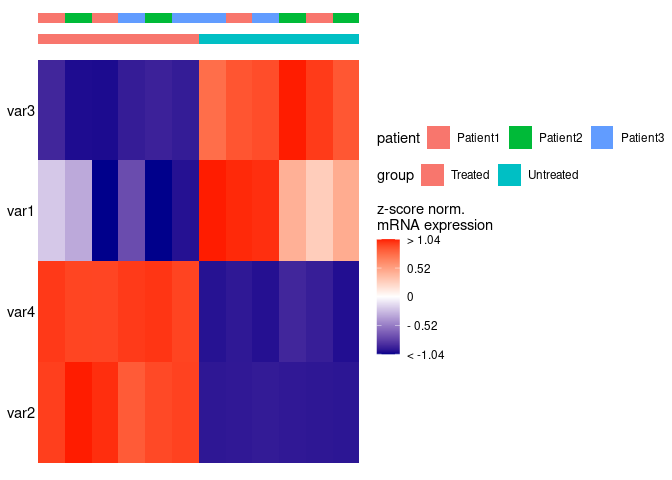
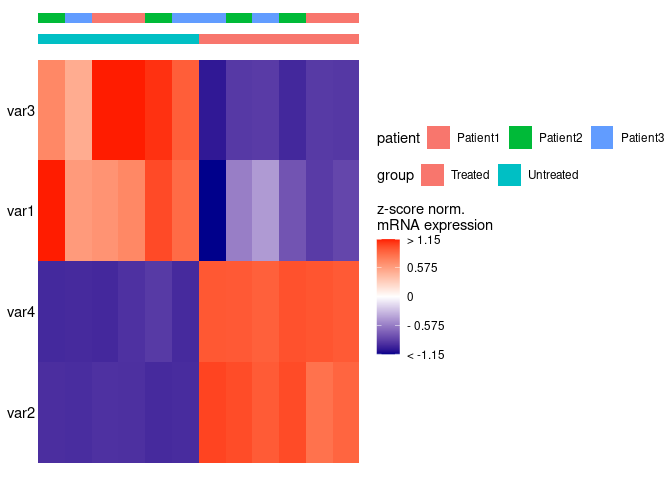
another readme update

diff --git a/README.md b/README.md
@@ -24,6 +24,7 @@ This is a basic example which shows you how to solve a common problem:
 
 ``` r
 library(simpleHM)
+
 df <- data.frame(samples = c(paste0("untreated", 1:6), paste0("treated", 7:12)),
                  group = c(rep("Untreated",6), rep("Treated",6)),
                  patient = c(rep(paste0("Patient", 1:3), 4)),
@@ -34,13 +35,13 @@ df <- data.frame(samples = c(paste0("untreated", 1:6), paste0("treated", 7:12)),
                  var4 = c(rnorm(6, 10, 1),  rnorm(6, 60, .7)))
 
 head(df)
-#>      samples     group  patient batch      var1      var2     var3      var4
-#> 1 untreated1 Untreated Patient1     1  8.927879  9.751583 47.86399  9.396543
-#> 2 untreated2 Untreated Patient2     2  9.216838  9.284323 45.87959  7.788124
-#> 3 untreated3 Untreated Patient3     1 11.298714  9.744121 43.88606  8.075569
-#> 4 untreated4 Untreated Patient1     2 10.101002 10.306085 46.04717  8.700804
-#> 5 untreated5 Untreated Patient2     1  9.178411 10.334551 54.46727 10.248702
-#> 6 untreated6 Untreated Patient3     2 10.076768 11.278322 46.62077  7.950546
+#>      samples     group  patient batch     var1      var2     var3      var4
+#> 1 untreated1 Untreated Patient1     1 10.10423 11.501308 56.37941  9.179734
+#> 2 untreated2 Untreated Patient2     2 10.86695  8.427591 54.16615 11.389776
+#> 3 untreated3 Untreated Patient3     1 10.01976  9.510030 41.26797  9.350953
+#> 4 untreated4 Untreated Patient1     2 10.23832 11.216166 55.85022 10.308983
+#> 5 untreated5 Untreated Patient2     1 11.77084 10.192072 45.74605  9.220261
+#> 6 untreated6 Untreated Patient3     2 10.55971  9.234998 50.49691  9.407339
 
 heatmap_plot <- simpleHM(df, excluded_vars = "batch")    
 #> normalisation done
@@ -116,6 +117,9 @@ distance between branches. For this purpose, the `pull_top` and
 through rotation along the branches of the tree.
 
 ``` r
+
+
+library(patchwork)
 p1 <- simpleHM(df, excluded_vars = "batch", add_dendros = T )
 #> normalisation done
 #> clustering samples done
@@ -150,11 +154,19 @@ p4 <- simpleHM(df, excluded_vars = "batch", add_dendros = T, pull_side = c("var1
 #> Adding another scale for y, which will replace the existing scale.Scale for x is already present.
 #> Adding another scale for x, which will replace the existing scale.
 
-combined_plots <- patchwork::wrap_plots(p1, p2, p3, p4, guides = "collect", ncol = 2)
-combined_plots
+combined_plots1 <- p1 | p2
+combined_plots2 <- p3 | p4
+
+combined_plots1
 ```
 
 <img src="man/figures/README-unnamed-chunk-5-1.png" width="100%" />
+
+``` r
+combined_plots2
+```
+
+<img src="man/figures/README-unnamed-chunk-5-2.png" width="100%" />
 
 These options can also be combined:
 
